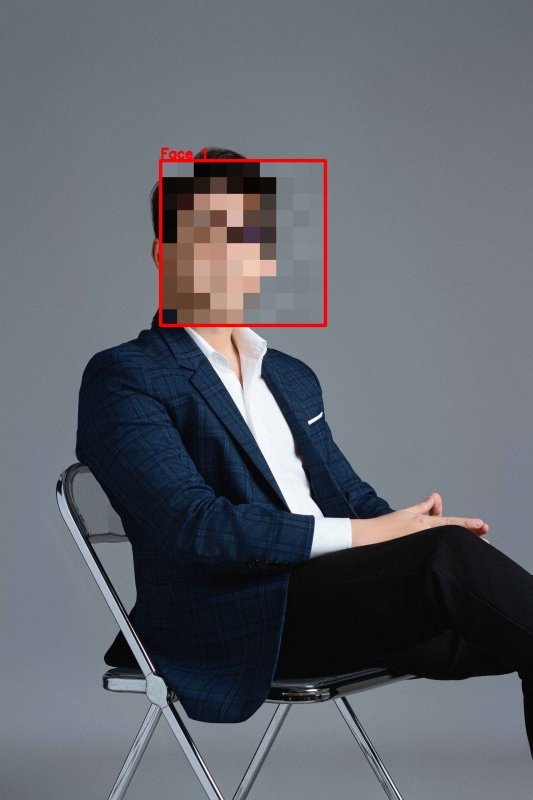
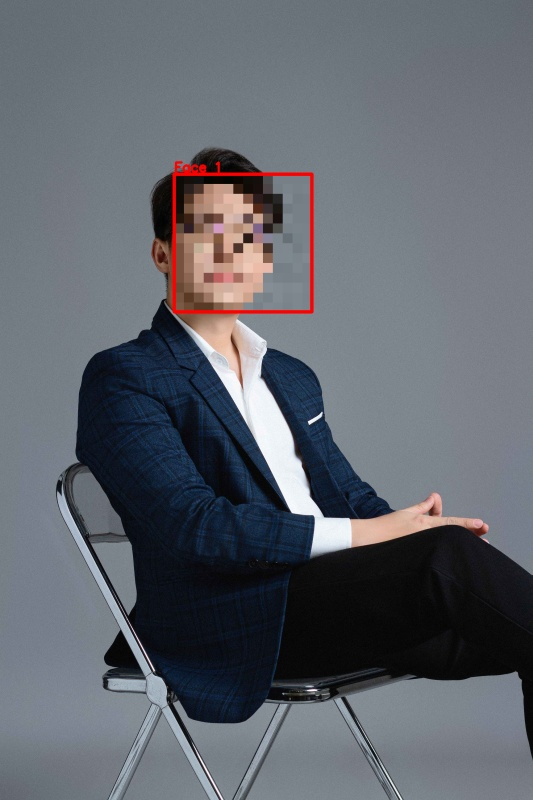
main_1.py수정 검출 정확도 표시

Changed region(s): [[0.2702, 0.1875, 0.6304, 0.4375]]

diff --git a/source/main_1.py b/source/main_1.py
@@ -14,6 +14,8 @@ BASE_DIR = Path(__file__).resolve().parent.parent
 INPUT_DIR = BASE_DIR / "data" / "images"
 OUTPUT_DIR = BASE_DIR / "outputs"
 CSV_PATH = OUTPUT_DIR / "face_mosaic_results.csv"
+GROUND_TRUTH_PATH = BASE_DIR / "data" / "ground_truth.csv"
+EVAL_CSV_PATH = OUTPUT_DIR / "evaluation_results.csv"
 
 IMAGE_EXTENSIONS = {
     ".jpg", ".jpeg", ".png", ".bmp", ".webp"
@@ -37,10 +39,10 @@ MIN_FACE_ASPECT = 0.60
 MAX_FACE_ASPECT = 1.40
 
 # 모자이크 영역 확장 비율
-FACE_PADDING_RATIO = 0.10
+FACE_PADDING_RATIO = 0.00
 
 # 모자이크 블록 설정
-MOSAIC_SIZE = 50
+MOSAIC_SIZE = 30
 
 # 고해상도 바운딩 박스 두께
 BOX_THICKNESS_RATIO = 0.004
@@ -75,7 +77,6 @@ def read_image(path):
 
 def save_image(path, image):
     try:
-        # 저장 전에 긴 변이 1200px를 넘으면 비율을 유지하며 축소
         height, width = image.shape[:2]
         scale = min(1.0, MAX_OUTPUT_SIZE / max(width, height))
 
@@ -118,7 +119,6 @@ def valid_face_box(x, y, w, h, image_width, image_height):
     if w <= 0 or h <= 0:
         return False
 
-    # 이미지 바깥 좌표 제외
     if (
             x < 0 or y < 0
             or x + w > image_width
@@ -126,19 +126,15 @@ def valid_face_box(x, y, w, h, image_width, image_height):
     ):
         return False
 
-    # 너무 작은 얼굴 후보 제외
     if w < MIN_FACE_SIZE or h < MIN_FACE_SIZE:
         return False
 
-    # 너비 / 높이 비율 검사
     aspect = w / h
 
     if not MIN_FACE_ASPECT <= aspect <= MAX_FACE_ASPECT:
         return False
 
     return True
-
-
 
 
 # ========================================
@@ -154,11 +150,7 @@ def box_iou(box_a, box_b):
     x2 = min(ax + aw, bx + bw)
     y2 = min(ay + ah, by + bh)
 
-    intersection = (
-            max(0, x2 - x1)
-            * max(0, y2 - y1)
-    )
-
+    intersection = max(0, x2 - x1) * max(0, y2 - y1)
     union = aw * ah + bw * bh - intersection
 
     if union <= 0:
@@ -168,7 +160,6 @@ def box_iou(box_a, box_b):
 
 
 def remove_duplicate_boxes(boxes, threshold=0.40):
-    # 큰 박스를 우선 유지
     boxes = sorted(
         boxes,
         key=lambda b: b[2] * b[3],
@@ -206,10 +197,6 @@ def detect_faces(gray, frontal_cascade, profile_cascade):
     frontal_faces = []
     profile_faces = []
 
-    # ------------------------------------
-    # 정면 얼굴
-    # ------------------------------------
-
     frontal_results = frontal_cascade.detectMultiScale(
         gray,
         scaleFactor=1.05,
@@ -221,14 +208,8 @@ def detect_faces(gray, frontal_cascade, profile_cascade):
     for x, y, w, h in frontal_results:
         box = tuple(map(int, (x, y, w, h)))
 
-        if valid_face_box(
-                *box, image_width, image_height
-        ):
+        if valid_face_box(*box, image_width, image_height):
             frontal_faces.append(box)
-
-    # ------------------------------------
-    # 측면 얼굴: 원본 방향 + 좌우 반전
-    # ------------------------------------
 
     flipped_gray = cv2.flip(gray, 1)
 
@@ -247,35 +228,20 @@ def detect_faces(gray, frontal_cascade, profile_cascade):
         for x, y, w, h in profile_results:
             x, y, w, h = map(int, (x, y, w, h))
 
-            # 반전 이미지 좌표를 원본 좌표로 변환
             if flipped:
                 x = image_width - x - w
 
             box = (x, y, w, h)
 
-            if valid_face_box(
-                    *box, image_width, image_height
-            ):
+            if valid_face_box(*box, image_width, image_height):
                 profile_faces.append(box)
 
-    # 각 모델 내부 중복 제거
-    frontal_faces = remove_duplicate_boxes(
-        frontal_faces,
-        threshold=0.40
-    )
+    frontal_faces = remove_duplicate_boxes(frontal_faces, threshold=0.40)
+    profile_faces = remove_duplicate_boxes(profile_faces, threshold=0.40)
 
-    profile_faces = remove_duplicate_boxes(
-        profile_faces,
-        threshold=0.40
-    )
-
-    # 두 모델의 결과 통합
     combined = frontal_faces + profile_faces
 
-    return remove_duplicate_boxes(
-        combined,
-        threshold=0.40
-    )
+    return remove_duplicate_boxes(combined, threshold=0.40)
 
 
 # ========================================
@@ -377,7 +343,100 @@ def mosaic_face(image, x, y, w, h):
 
 
 # ========================================
-# 11. 메인 실행
+# 11. Ground Truth 비교 및 평가 함수
+# ========================================
+
+def evaluate_results():
+    if not GROUND_TRUTH_PATH.exists():
+        print(f"\n[안내] ground_truth.csv 파일이 없어 평가를 건너뜁니다. (경로: {GROUND_TRUTH_PATH})")
+        return
+
+    # 1. Ground Truth 읽기
+    gt_data = {}
+    try:
+        with open(GROUND_TRUTH_PATH, mode="r", encoding="utf-8-sig") as f:
+            reader = csv.DictReader(f)
+            for row in reader:
+                filename = row["파일명"].strip()
+                try:
+                    gt_count = int(row["실제 얼굴 수"])
+                except ValueError:
+                    gt_count = 0
+                gt_data[filename] = gt_count
+    except Exception as e:
+        print(f"[평가 오류] ground_truth.csv 읽기 실패: {e}")
+        return
+
+    # 2. 생성된 결과 CSV(face_mosaic_results.csv)에서 검출된 얼굴 수 집계
+    detected_counts = {filename: 0 for filename in gt_data.keys()}
+
+    if CSV_PATH.exists():
+        try:
+            with open(CSV_PATH, mode="r", encoding="utf-8-sig") as f:
+                reader = csv.DictReader(f)
+                for row in reader:
+                    fname = row["image_name"]
+                    status = row["status"]
+                    if fname in detected_counts and status == "detected":
+                        detected_counts[fname] += 1
+        except Exception as e:
+            print(f"[평가 오류] face_mosaic_results.csv 읽기 실패: {e}")
+            return
+
+    # 3. 비교 및 통계 계산
+    total_evaluated = len(gt_data)
+    exact_matches = 0
+    over_detections = 0
+    under_detections = 0
+
+    eval_results = []
+
+    for filename, gt_count in gt_data.items():
+        det_count = detected_counts.get(filename, 0)
+
+        if det_count == gt_count:
+            result_status = "Exact Match"
+            exact_matches += 1
+        elif det_count > gt_count:
+            result_status = "Over-detection"
+            over_detections += 1
+        else:
+            result_status = "Under-detection"
+            under_detections += 1
+
+        eval_results.append({
+            "filename": filename,
+            "ground_truth": gt_count,
+            "detected": det_count,
+            "evaluation": result_status
+        })
+
+    accuracy = (exact_matches / total_evaluated) * 100 if total_evaluated > 0 else 0
+
+    # 4. 상세 평가 결과 저장
+    eval_csv_columns = ["filename", "ground_truth", "detected", "evaluation"]
+    try:
+        with open(EVAL_CSV_PATH, mode="w", newline="", encoding="utf-8-sig") as f:
+            writer = csv.DictWriter(f, fieldnames=eval_csv_columns)
+            writer.writeheader()
+            writer.writerows(eval_results)
+    except Exception as e:
+        print(f"[평가 오류] evaluation_results.csv 저장 실패: {e}")
+
+    # 5. 콘솔 리포트 출력
+    print("\n" + "=" * 60)
+    print("모자이크 처리 성능 평가 결과")
+    print("=" * 60)
+    print(f"평가 대상 이미지 수: {total_evaluated}개")
+    print(f"정확히 일치 (Exact Match): {exact_matches}개 ({accuracy:.1f}%)")
+    print(f"과검출 (Over-detection, 예측 > 실제): {over_detections}개")
+    print(f"미검출 (Under-detection, 예측 < 실제): {under_detections}개")
+    print(f"상세 평가 리포트 저장: {EVAL_CSV_PATH}")
+    print("=" * 60)
+
+
+# ========================================
+# 12. 메인 실행
 # ========================================
 
 def main():
@@ -477,13 +536,11 @@ def main():
                 f"{original_width} x {original_height}"
             )
 
-            # 원본 이미지에서 회색조 변환
             gray = cv2.cvtColor(
                 image,
                 cv2.COLOR_BGR2GRAY
             )
 
-            # 검출용 이미지 축소
             detection_gray, scale = prepare_detection_image(gray)
 
             print(
@@ -492,20 +549,17 @@ def main():
                 f"{detection_gray.shape[0]}"
             )
 
-            # 축소 이미지에서 검출
             detected_faces = detect_faces(
                 detection_gray,
                 frontal_cascade,
                 profile_cascade
             )
 
-            # 원본 이미지 좌표로 변환
             faces = restore_original_coordinates(
                 detected_faces,
                 scale
             )
 
-            # 복원 후 범위 및 크기 재검사
             faces = [
                 (x, y, w, h)
                 for x, y, w, h in faces
@@ -517,7 +571,6 @@ def main():
             ]
 
             faces = remove_duplicate_boxes(faces)
-
             faces.sort(key=lambda b: (b[1], b[0]))
 
             print(f"  검출 얼굴 수: {len(faces)}")
@@ -535,7 +588,6 @@ def main():
                     "status": "no_face_detected"
                 })
 
-            # 원본 이미지에 모자이크 및 박스 적용
             for face_index, (x, y, w, h) in enumerate(
                     faces, start=1
             ):
@@ -555,7 +607,6 @@ def main():
                     )
                 )
 
-                # 빨간색 바운딩 박스
                 cv2.rectangle(
                     image,
                     (bx, by),
@@ -580,7 +631,6 @@ def main():
                     cv2.LINE_AA
                 )
 
-                # CSV 좌표는 원본 이미지 기준
                 writer.writerow({
                     "image_name": image_path.name,
                     "image_width": original_width,
@@ -621,10 +671,13 @@ def main():
     print(f"전체 이미지: {len(image_files)}개")
     print(f"성공: {success_count}개")
     print(f"실패: {failed_count}개")
-    print(f"총 검출 얼굴: {total_faces}개")
-    print(f"결과 이미지: {OUTPUT_DIR}")
+    print(f"총 검출 얼굴 수: {total_faces}개")
+    print(f"결과 이미지 폴더: {OUTPUT_DIR}")
     print(f"좌표 CSV: {CSV_PATH}")
     print("=" * 60)
+
+    # **추가된 부분: Ground Truth와 비교 및 평가 수행**
+    evaluate_results()
 
 
 if __name__ == "__main__":
